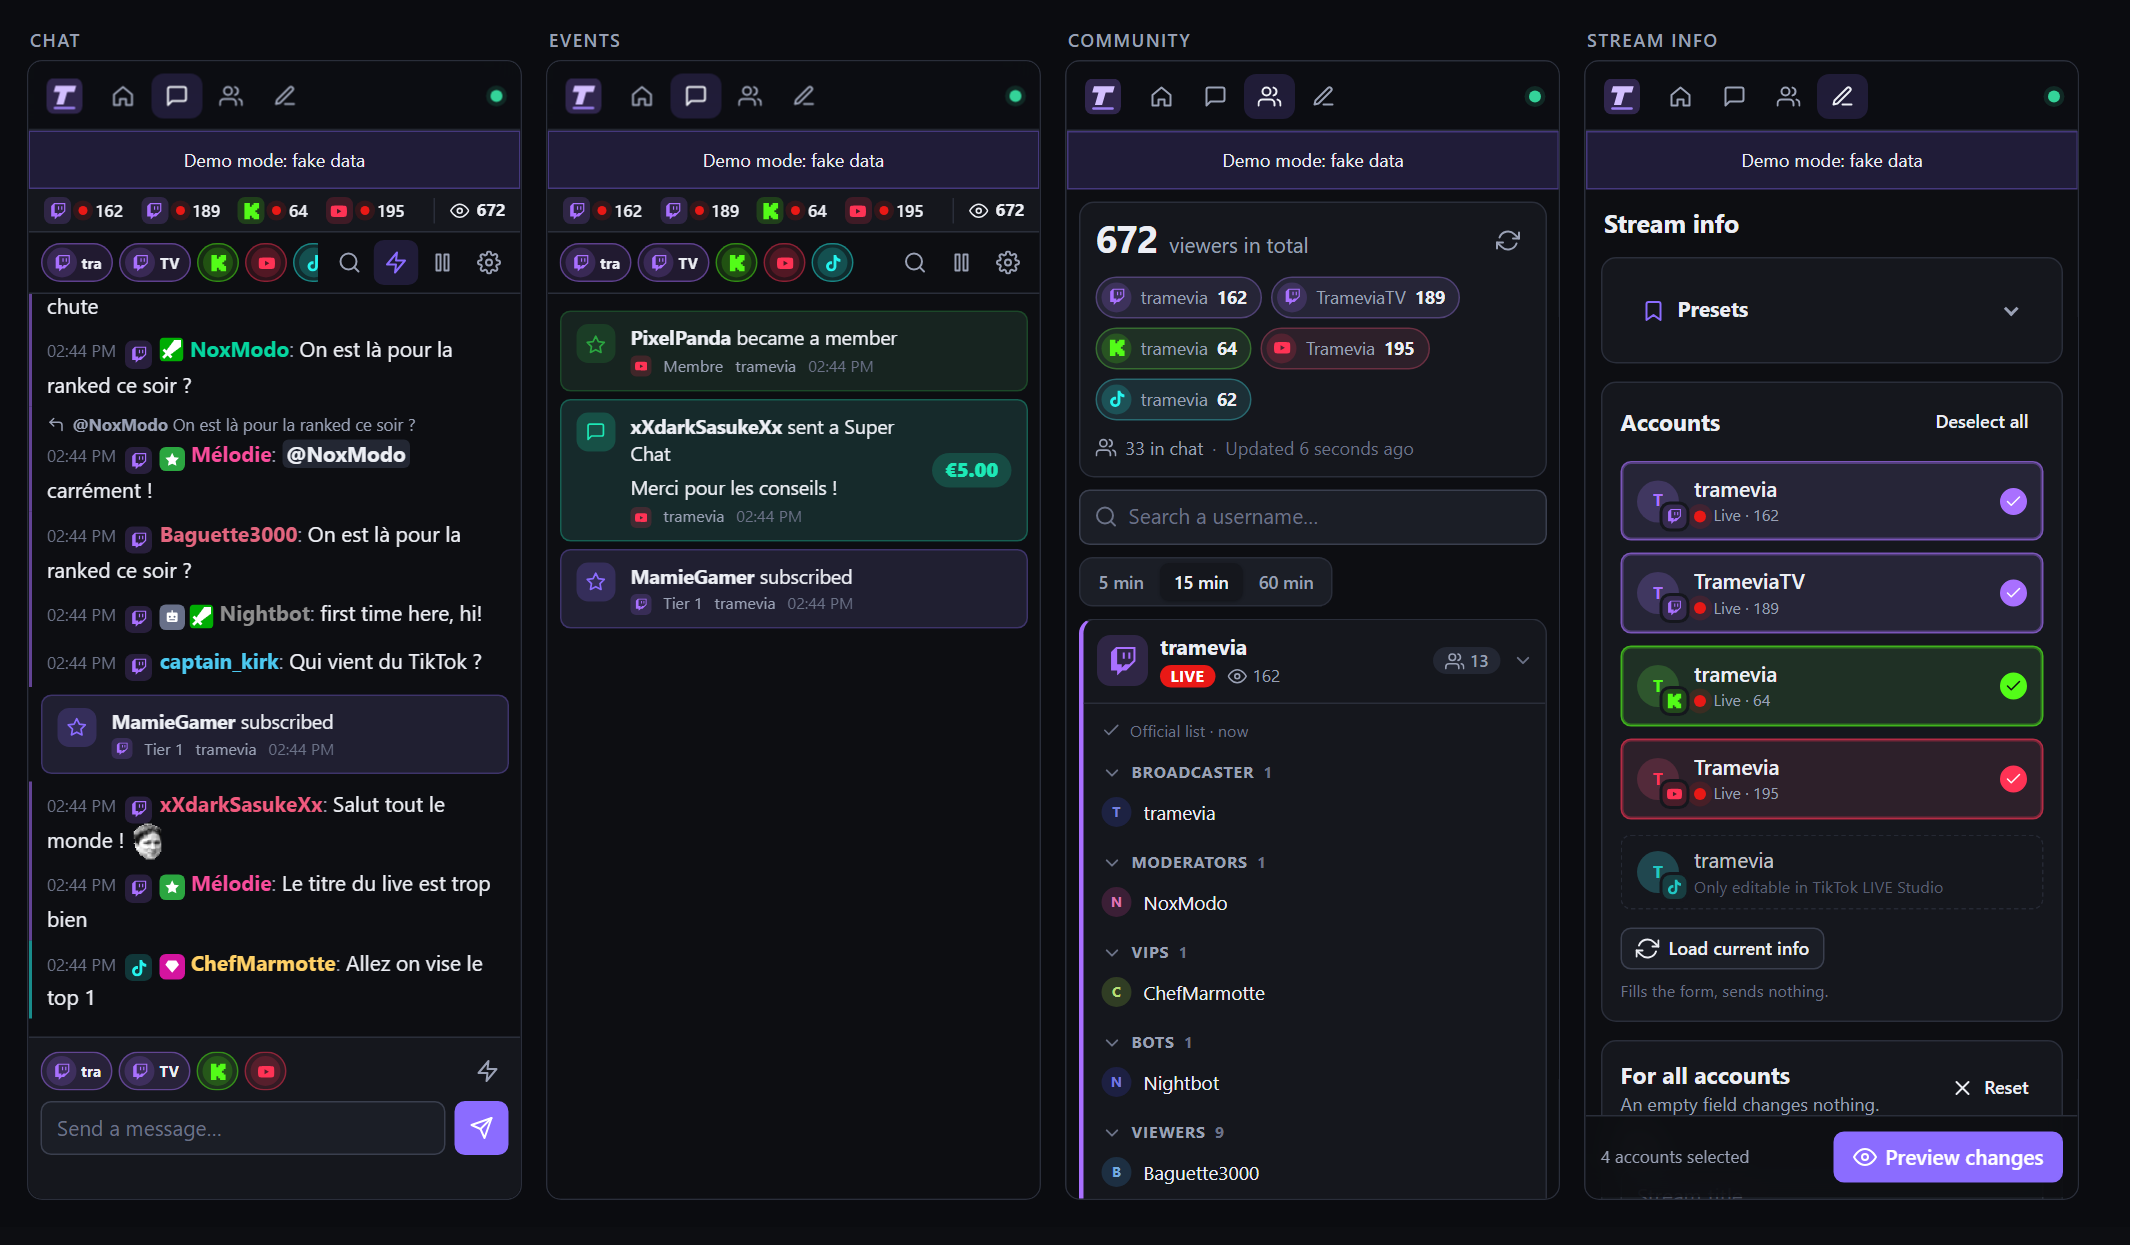
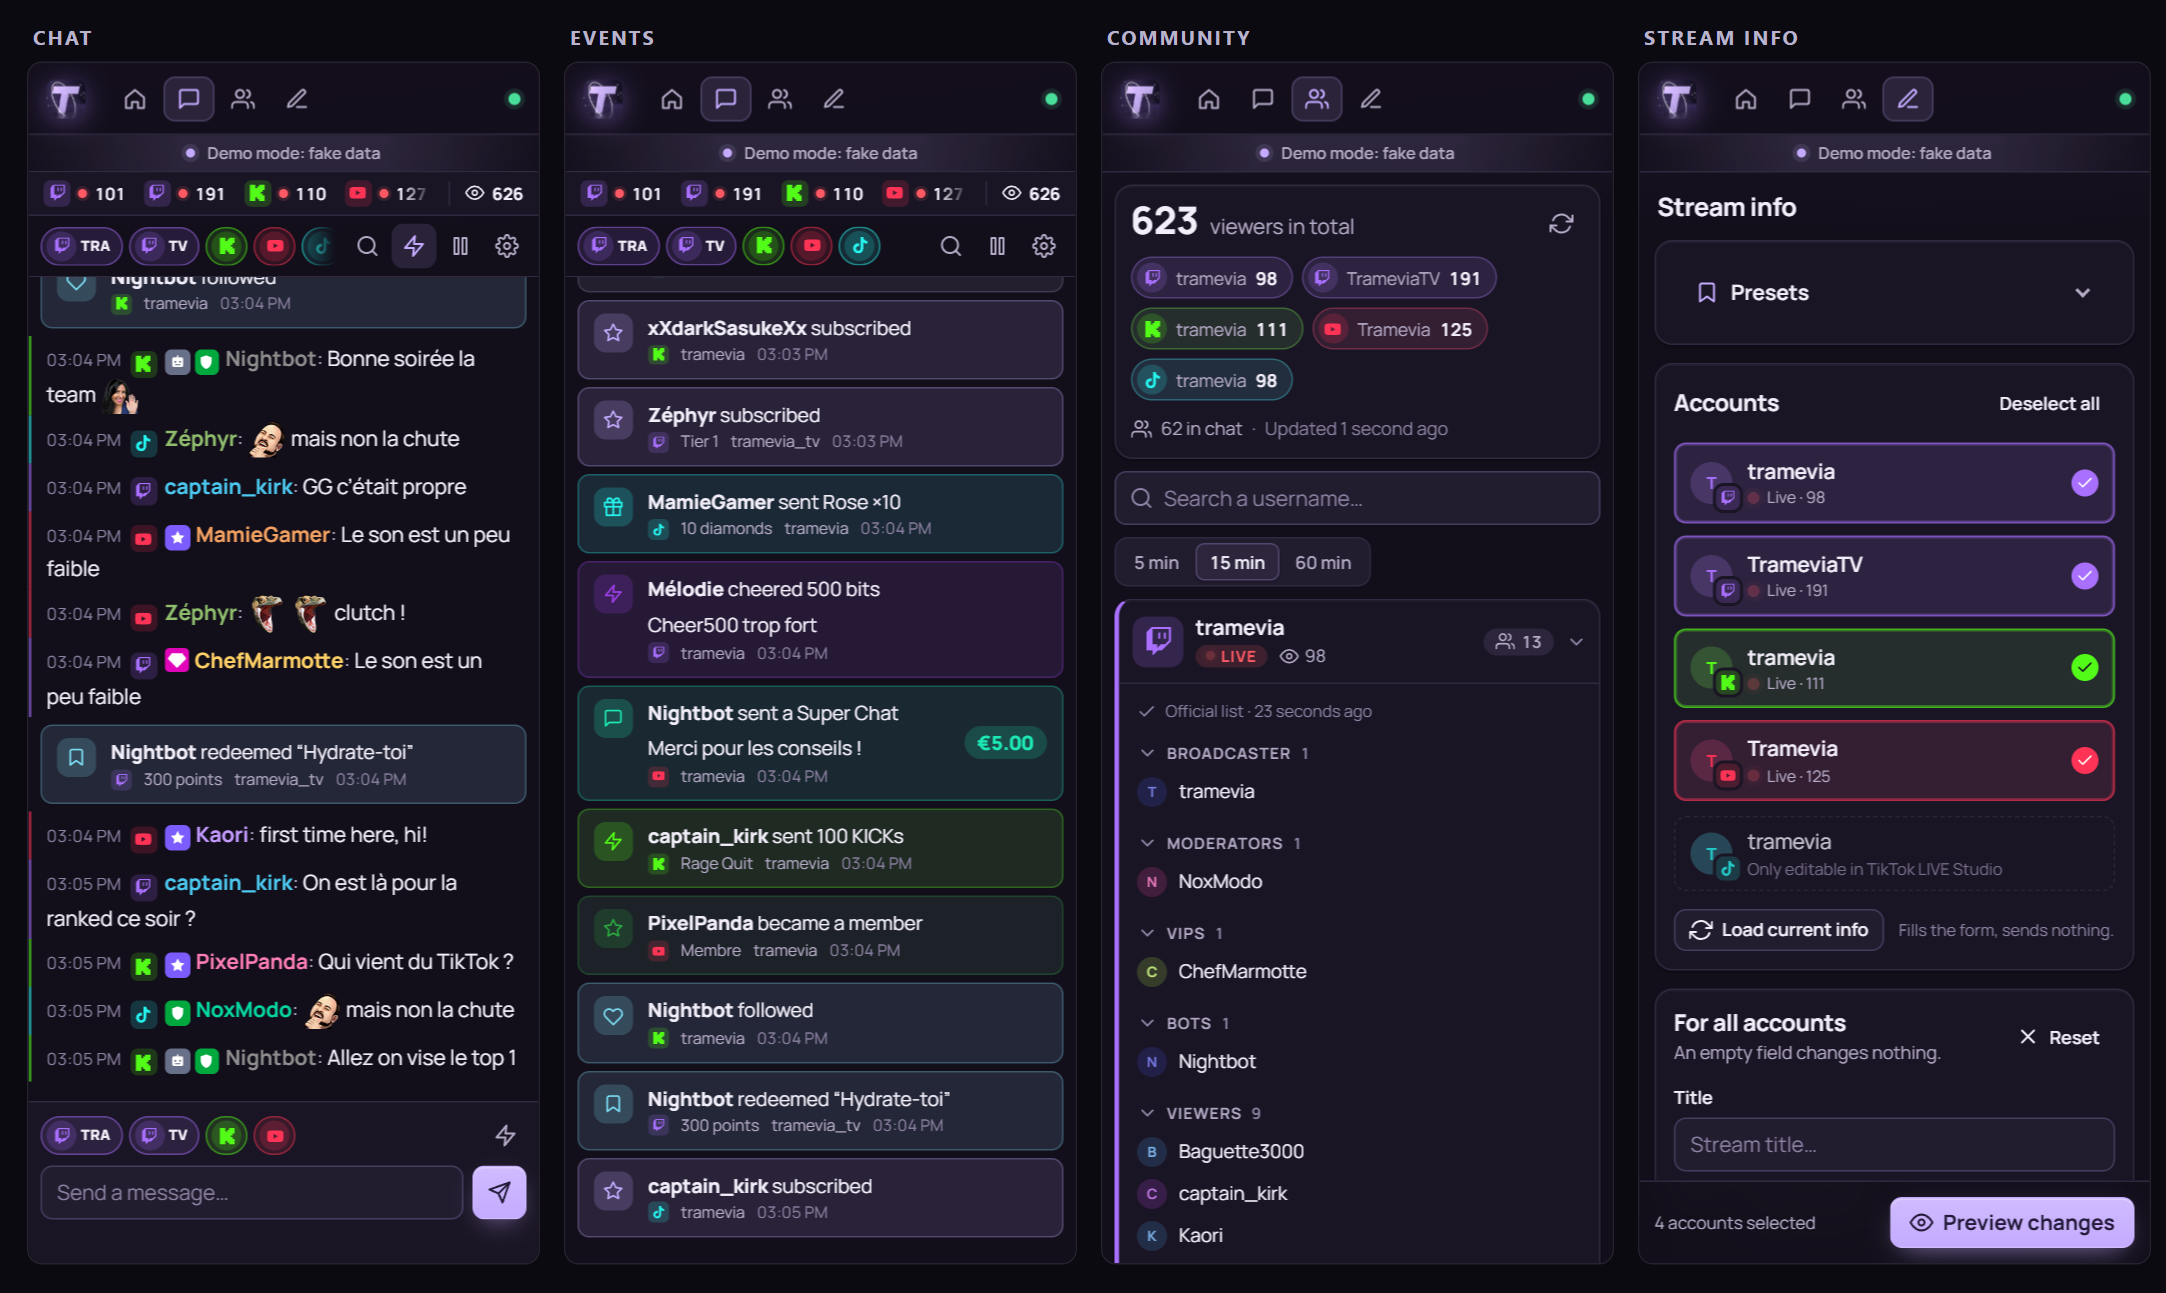
README visuals in the 1.5 look: dashboard, docks, chat, community, stream info, setup wizard, OBS, alerts, viewers, sign-in, first run and the animated chat

diff --git a/README.fr.md b/README.fr.md
@@ -29,7 +29,7 @@
 </p>
 
 <p align="center">
-  <img src="docs/assets/screenshots/fr/docks.png" width="100%" alt="Les quatre docks de Tramevia Dock côte à côte, comme dans OBS : le chat unifié avec des messages de Twitch, Kick, YouTube et TikTok, le fil des événements (abonnements, Super Chat, cadeaux), la communauté avec 677 spectateurs au total, et les infos du live avec les comptes à modifier">
+  <img src="docs/assets/screenshots/fr/docks.png" width="100%" alt="Les quatre docks de Tramevia Dock côte à côte, comme dans OBS : le chat unifié avec des messages de Twitch, Kick, YouTube et TikTok, le fil des événements (abonnements, Super Chat, cadeaux), la communauté avec le total des spectateurs par chaîne, et les infos du live avec les comptes à modifier">
 </p>
 
 <p align="center"><sub>Les quatre docks, en mode démo. Un <b>dock</b>, c’est un petit panneau que tu ranges dans la fenêtre d’OBS, à côté de tes scènes : toi seul le vois.</sub></p>
@@ -44,7 +44,7 @@
 <table>
   <tr>
     <td width="50%" align="center">
-      <img src="docs/assets/screenshots/fr/chat-live.gif" width="300" alt="Animation du dock Chat unifié : les messages de Twitch, Kick, YouTube et TikTok arrivent en direct avec leurs émotes, un don de 500 Bits s’affiche dans le fil et une mention de la chaîne est mise en évidence">
+      <img src="docs/assets/screenshots/fr/chat-live.gif" width="300" alt="Animation du dock Chat unifié : les messages de Twitch, Kick, YouTube et TikTok arrivent dans une seule liste avec leurs émotes, des réponses et des cartes d’événements comme des abonnements offerts">
     </td>
     <td width="50%">
       <p><b>Tout ton chat dans un seul fil.</b><br>Les messages de toutes tes chaînes arrivent au même endroit, chacun avec l’icône de sa plateforme.</p>
@@ -392,12 +392,12 @@ Tout se règle dans la section **Live** du tableau de bord, pour toutes tes plat
 <table>
   <tr>
     <td width="50%" align="center" valign="top">
-      <img src="docs/assets/screenshots/fr/chat-dock.png" width="240" alt="Le dock Chat unifié en largeur étroite : messages de Twitch, Kick, YouTube et TikTok, un raid, le choix des comptes destinataires et la zone d’envoi"><br>
+      <img src="docs/assets/screenshots/fr/chat-dock.png" width="240" alt="Le dock Chat unifié en largeur étroite : messages de Twitch, Kick, YouTube et TikTok, un premier message mis en avant, une carte de cadeau TikTok, le choix des comptes destinataires et la zone d’envoi"><br>
       <b>💬 Chat unifié</b><br>
       <sub>Lecture, envoi multi-comptes, réponses et modération</sub>
     </td>
     <td width="50%" align="center" valign="top">
-      <img src="docs/assets/screenshots/fr/community-dock.png" width="240" alt="Le dock Communauté : 676 spectateurs au total avec le détail par chaîne, une recherche de pseudo, les filtres 5, 15 et 60 minutes, et la liste officielle Twitch rangée par rôle"><br>
+      <img src="docs/assets/screenshots/fr/community-dock.png" width="240" alt="Le dock Communauté : le total des spectateurs avec le détail par chaîne, une recherche de pseudo, les filtres 5, 15 et 60 minutes, et la liste officielle Twitch rangée par rôle"><br>
       <b>👥 Communauté</b><br>
       <sub>Total de spectateurs et qui est dans ton chat</sub>
     </td>

diff --git a/README.md b/README.md
@@ -50,7 +50,7 @@
 <table>
   <tr>
     <td width="50%" align="center">
-      <img src="docs/assets/screenshots/en/chat-live.gif" width="320" alt="Animated chat dock: messages from Twitch, Kick, YouTube and TikTok arrive in one list, each with its platform icon, with a reply and a new subscriber card">
+      <img src="docs/assets/screenshots/en/chat-live.gif" width="320" alt="Animated chat dock: messages from Twitch, Kick, YouTube and TikTok arrive in one list, each with its platform icon, with replies and event cards such as a gifted subs card">
     </td>
     <td width="50%">
       <ul>
@@ -386,12 +386,12 @@ Everything is in the dashboard's **Live** section, for all your platforms at onc
 <table>
   <tr>
     <td width="50%" align="center" valign="top">
-      <img src="docs/assets/screenshots/en/chat-dock.png" width="260" alt="The Unified chat dock: viewer counts per channel, messages from Twitch, Kick, YouTube and TikTok, a highlighted first message, a resub card and the message box"><br>
+      <img src="docs/assets/screenshots/en/chat-dock.png" width="260" alt="The Unified chat dock: viewer counts per channel, messages from Twitch, Kick, YouTube and TikTok, a highlighted first message, a TikTok gift card and the message box"><br>
       <b>💬 Unified chat</b><br>
       <sub>Every chat in one list, with emotes, badges, replies and moderation.</sub>
     </td>
     <td width="50%" align="center" valign="top">
-      <img src="docs/assets/screenshots/en/community-dock.png" width="260" alt="The Community dock: 672 viewers in total split by channel, and the official Twitch chatter list grouped by broadcaster, moderators, VIPs, bots and viewers"><br>
+      <img src="docs/assets/screenshots/en/community-dock.png" width="260" alt="The Community dock: total viewers split by channel, and the official Twitch chatter list grouped by broadcaster, moderators, VIPs, bots and viewers"><br>
       <b>👥 Community</b><br>
       <sub>Total viewers and who is in your chat, by role.</sub>
     </td>
